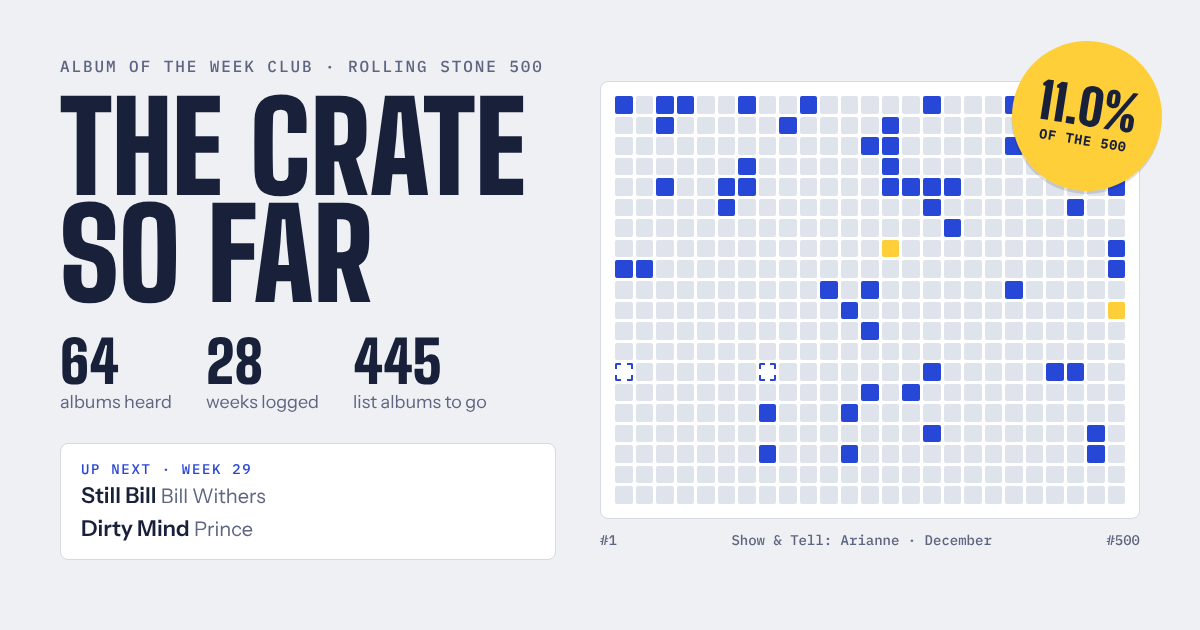
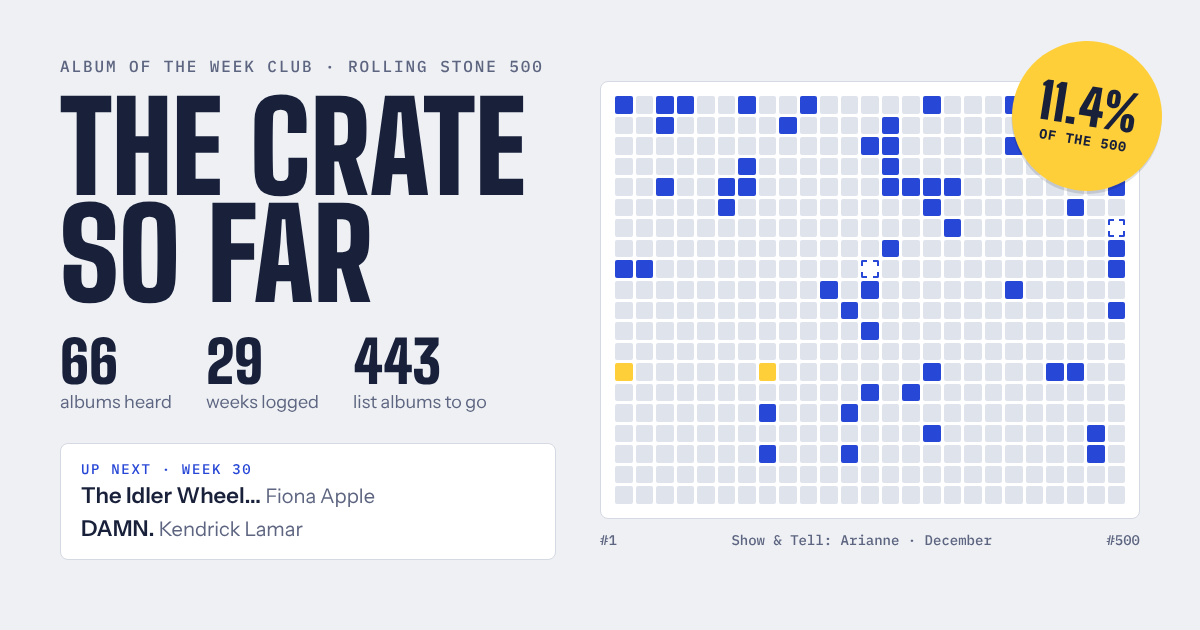
Week 30 albums
Claude-Session: https://claude.ai/code/session_017qSDTLtvHjN1ntxQNnDaXv

diff --git a/index.html b/index.html
@@ -4,13 +4,13 @@
 <meta charset="utf-8">
 <meta name="viewport" content="width=device-width,initial-scale=1,viewport-fit=cover">
 <title>Album Club Crate</title>
-<meta name="description" content="64 albums heard · 11.0% of the Rolling Stone 500 · Up next: Still Bill and Dirty Mind">
+<meta name="description" content="66 albums heard · 11.4% of the Rolling Stone 500 · Up next: The Idler Wheel... and DAMN.">
 <meta property="og:type" content="website">
 <meta property="og:site_name" content="Album Club Crate">
 <meta property="og:title" content="The Crate So Far · Album of the Week Club">
-<meta property="og:description" content="64 albums heard · 11.0% of the Rolling Stone 500 · Up next: Still Bill and Dirty Mind">
+<meta property="og:description" content="66 albums heard · 11.4% of the Rolling Stone 500 · Up next: The Idler Wheel... and DAMN.">
 <meta property="og:url" content="https://theburg51.github.io/album-club-crate/">
-<meta property="og:image" content="https://theburg51.github.io/album-club-crate/preview.png?v=29">
+<meta property="og:image" content="https://theburg51.github.io/album-club-crate/preview.png?v=30">
 <meta property="og:image:width" content="1200">
 <meta property="og:image:height" content="630">
 <meta property="og:image:alt" content="Album Club progress: the Rolling Stone 500 grid with the albums we've heard lit up">
@@ -164,10 +164,12 @@ const R=[
 [27,"Abandoned Luncheonette","Hall & Oates",1973,-1,"332663733","Jerry"],
 [27,"Diamond Life","Sade",1984,200,"211429791"],
 [28,"Curtis","Curtis Mayfield",1970,275,"29168201"],
-[28,"Dig Me Out","Sleater-Kinney",1997,189,"906136610"]
+[28,"Dig Me Out","Sleater-Kinney",1997,189,"906136610"],
+[29,"Still Bill","Bill Withers",1972,333,"989376986"],
+[29,"Dirty Mind","Prince",1980,326,"1544296643"]
 ];
 const row=([w,t,a,y,r,am,st])=>({w,t,a,y,r:r>0?r:undefined,off:r<0,am,st}), A=R.map(row);
-const NEXT=[[29,"Still Bill","Bill Withers",1972,333,"989376986"],[29,"Dirty Mind","Prince",1980,326,"1544296643"]].map(row);
+const NEXT=[[30,"The Idler Wheel...","Fiona Apple",2012,213,"1462213924"],[30,"DAMN.","Kendrick Lamar",2017,175,"1440881047"]].map(row);
 const $=id=>document.getElementById(id);
 const NOTES=[
 {v:"1.7",d:"Nov 23, 2026",items:["The Crate has a new home at theburg51.github.io/album-club-crate. Bring your catch-up progress over with \u201cCopy my code\u201d on the old page and \u201cLoad code\u201d here.","Catching up? Tap \u201cPick one for me\u201d in Your crate and the page picks a random album you missed.","There\u2019s a turntable at the bottom of the page. Give the record a spin, or drop the needle to hear a 30-second preview of a random album from the crate. While it plays, grab the record to stop it or spin it to scratch.","This week\u2019s albums now get their own big spot at the top of the page, Show & Tell takes up less room (tap \u201cSee the full rotation\u201d for everyone\u2019s turn), and the turntable sits right above the log.","Album covers now show in the log, on the grid and in your catch-up list. Tap a square on the grid to see its cover.","Sharing the link in a group chat now shows a preview card with our progress and what\u2019s up next."]},
